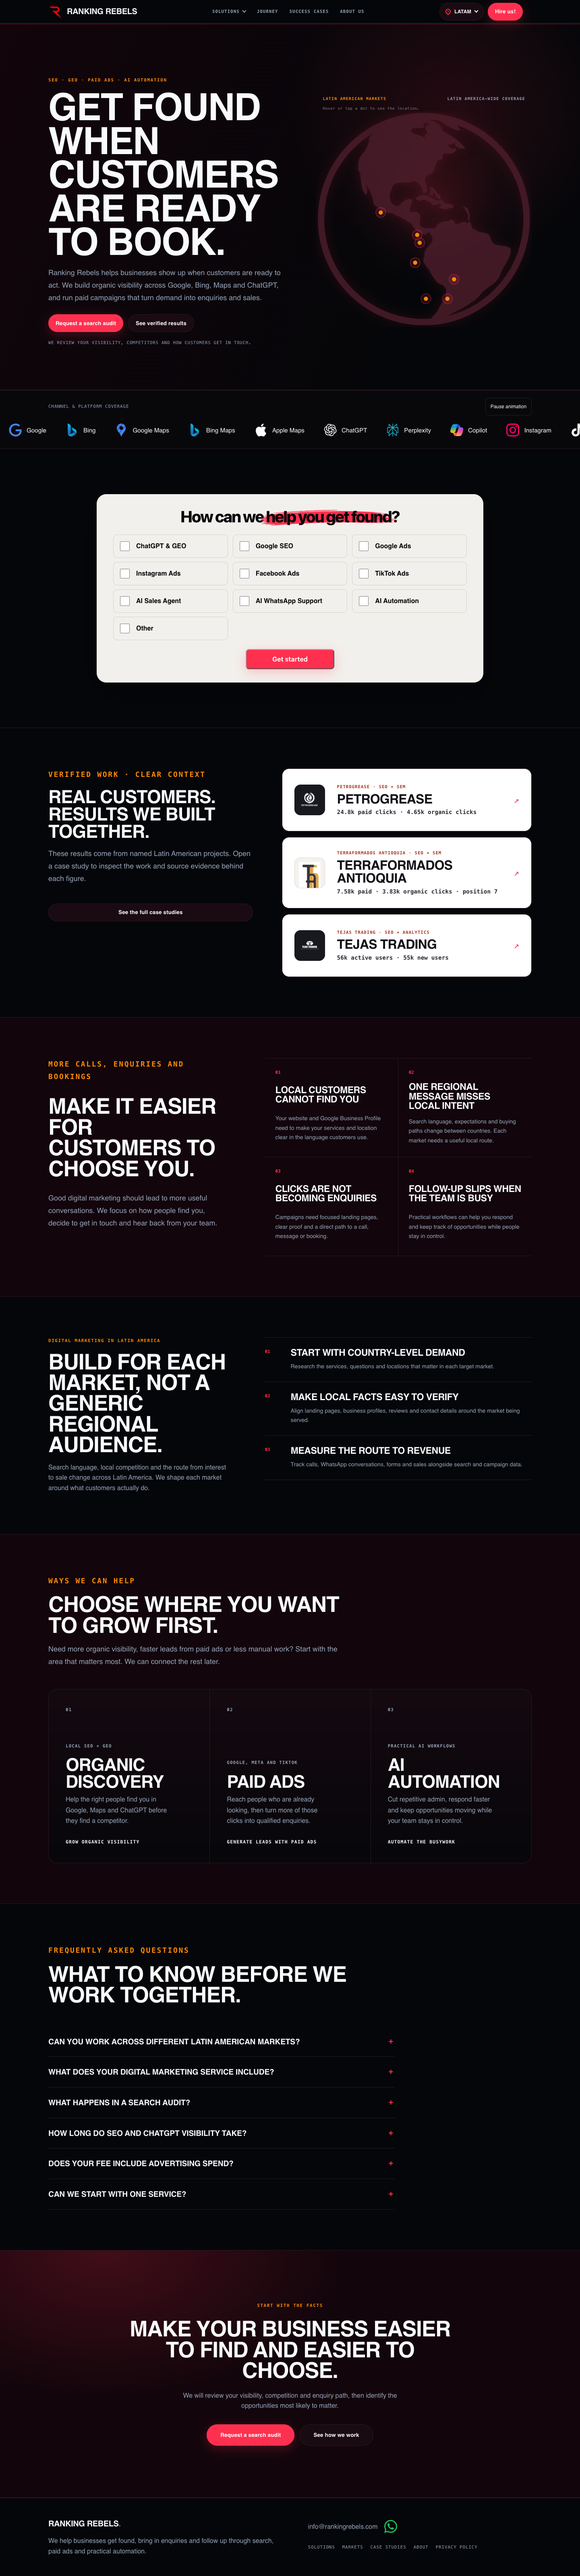
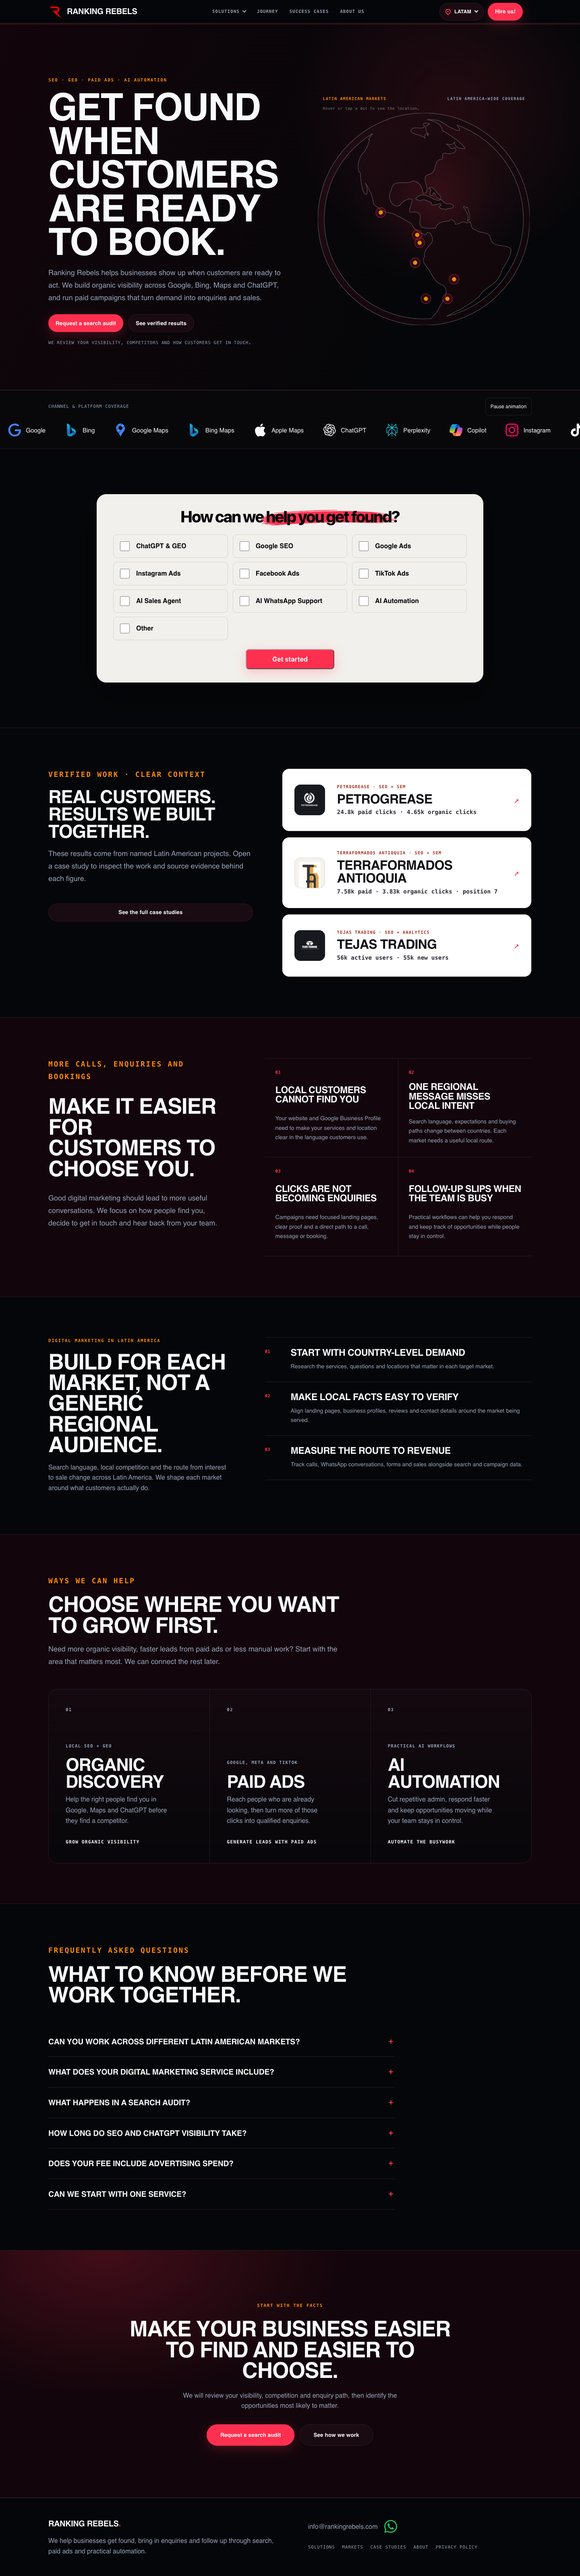
fix: align location map styling

Changed region(s): [[0.5938, 0.0312, 0.9375, 0.1246], [0.5312, 0.0623, 0.625, 0.1246]]

diff --git a/tests/site-structure.test.js b/tests/site-structure.test.js
@@ -317,12 +317,24 @@ test("the Netherlands and LATAM pages use the search-led market landing structur
 test("market landing pages share the ribbon fallback and scoped responsive styles", () => {
   const styles = read("assets/css/styles.css");
   const ribbon = read("assets/js/platform-ribbon.js");
+  const mapArtwork = [
+    read("assets/images/locations/netherlands/netherlands-svgrepo-com.svg"),
+    read("assets/images/locations/latam/earth-america-svgrepo-com.svg"),
+  ];
   assert.match(ribbon, /document\.querySelector\('\.platform-ribbon'\)/);
   assert.match(styles, /:is\(\.australia-page, \.market-landing-page\) \.platform-ribbon/);
   assert.match(styles, /:is\(\.australia-page, \.market-landing-page\) \.solution-picker-image/);
   assert.match(styles, /\.market-landing-page \.market-hero/);
   assert.match(styles, /@media \(max-width: 700px\)[\s\S]*?\.coverage-map \.market-tooltip/);
   assert.match(styles, /@media \(prefers-reduced-motion: reduce\)[\s\S]*?animation: none/);
+  assert.doesNotMatch(styles, /\.coverage-land-artwork\s*\{[^}]*filter:/);
+  for (const artwork of mapArtwork) {
+    assert.match(artwork, /<linearGradient id="map-land-fill"/);
+    assert.match(artwork, /stop-color="#210c13"/);
+    assert.match(artwork, /stop-color="#0d0508"/);
+    assert.match(artwork, /stroke="#f8fafc"|stroke:#f8fafc/);
+    assert.match(artwork, /stroke-opacity="0\.26"|stroke-opacity:0\.26/);
+  }
 });
 
 test("the homepage follows the selected search-led growth structure", () => {

diff --git a/assets/css/styles.css b/assets/css/styles.css
@@ -7459,10 +7459,6 @@ body.service-dialog-open {
 .coverage-map-stage::before { content: ""; position: absolute; z-index: -1; inset: 10% 6% 20% 16%; border-radius: 50%; background: radial-gradient(circle, rgba(255, 48, 79, 0.16), rgba(255, 48, 79, 0.025) 48%, transparent 72%); filter: blur(24px); }
 .coverage-map { display: block; max-width: 100%; height: auto; overflow: hidden; }
 .coverage-map .coverage-land { stroke: rgba(248, 250, 252, 0.26); stroke-width: 1.35; vector-effect: non-scaling-stroke; }
-.coverage-map .coverage-land-artwork {
-  opacity: 0.78;
-  filter: brightness(0) saturate(100%) invert(15%) sepia(22%) saturate(1740%) hue-rotate(292deg) brightness(91%) contrast(94%) drop-shadow(0 0 12px rgba(255, 48, 79, 0.18));
-}
 .coverage-map .market-marker { outline: none; }
 .coverage-map .market-hit-area { fill: transparent; pointer-events: all; }
 .coverage-map .market-halo { fill: rgba(255, 48, 79, 0.1); stroke: rgba(255, 48, 79, 0.58); stroke-width: 1; }
